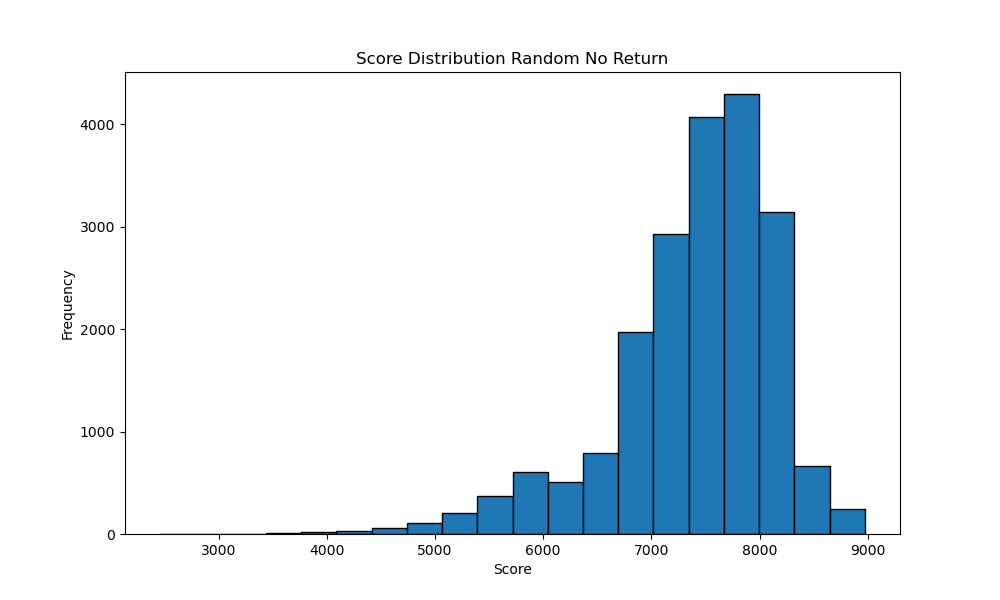
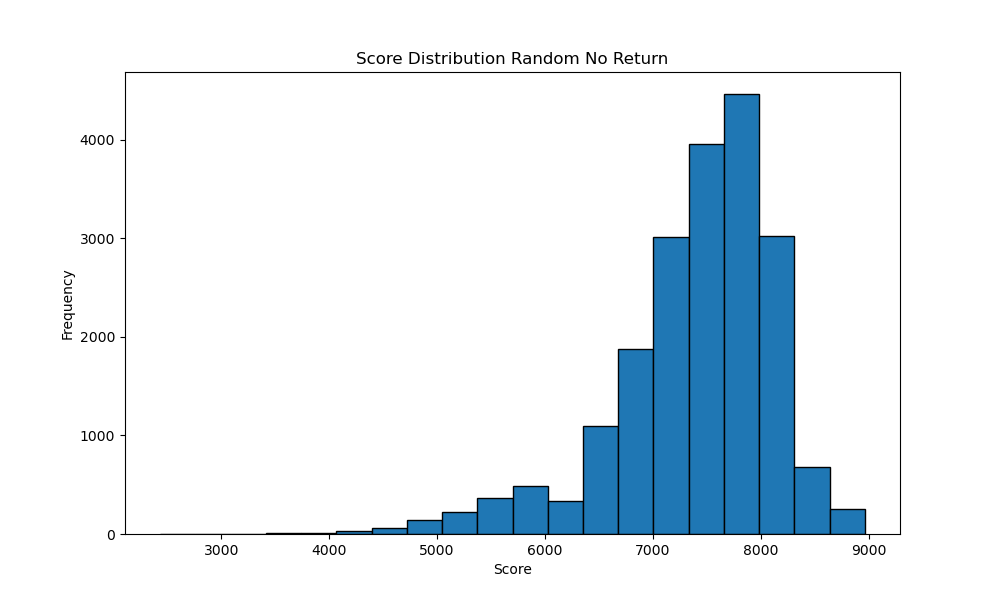
score optimizer op no return

diff --git a/main.py b/main.py
@@ -40,10 +40,12 @@ def main():
     # save results to csv
     random_r_results.to_csv('output/output_r.csv')
     random_nr_results.to_csv('output/output_nr.csv')
+    score_optimizer_results.to_csv('output/output_so.csv')
 
     # calculate and plot score distribution
     ScoreDistribution(20000, Random_R, all_connections, 'output/score_distribution_r.png', 'Score Distribution Random Return', 7, all_connections, 120)
     ScoreDistribution(20000, Random_NR, all_connections, 'output/score_distribution_nr.png', 'Score Distribution Random No Return', 7, all_connections, 120)
+    ScoreDistribution(200, Score_Optimizer, all_connections, 'output/score_distribution_so.png', 'Score Distribution Optimizer', 7, all_connections, 120)
 
     # plot the trajectories
     plotter = TrainNetwork('data/ConnectiesHolland.csv', 'data/StationsHolland.csv')

diff --git a/algorithms/best_score.py b/algorithms/best_score.py
@@ -1,7 +1,7 @@
-from algorithms.random_R import Random_R
+from algorithms.random_NR import Random_NR
 from algorithms.base import Base
 
-class Score_Optimizer(Random_R):
+class Score_Optimizer(Random_NR):
 
     def select_next_station(self, possible_connections):
         possible_connections_scores = []
